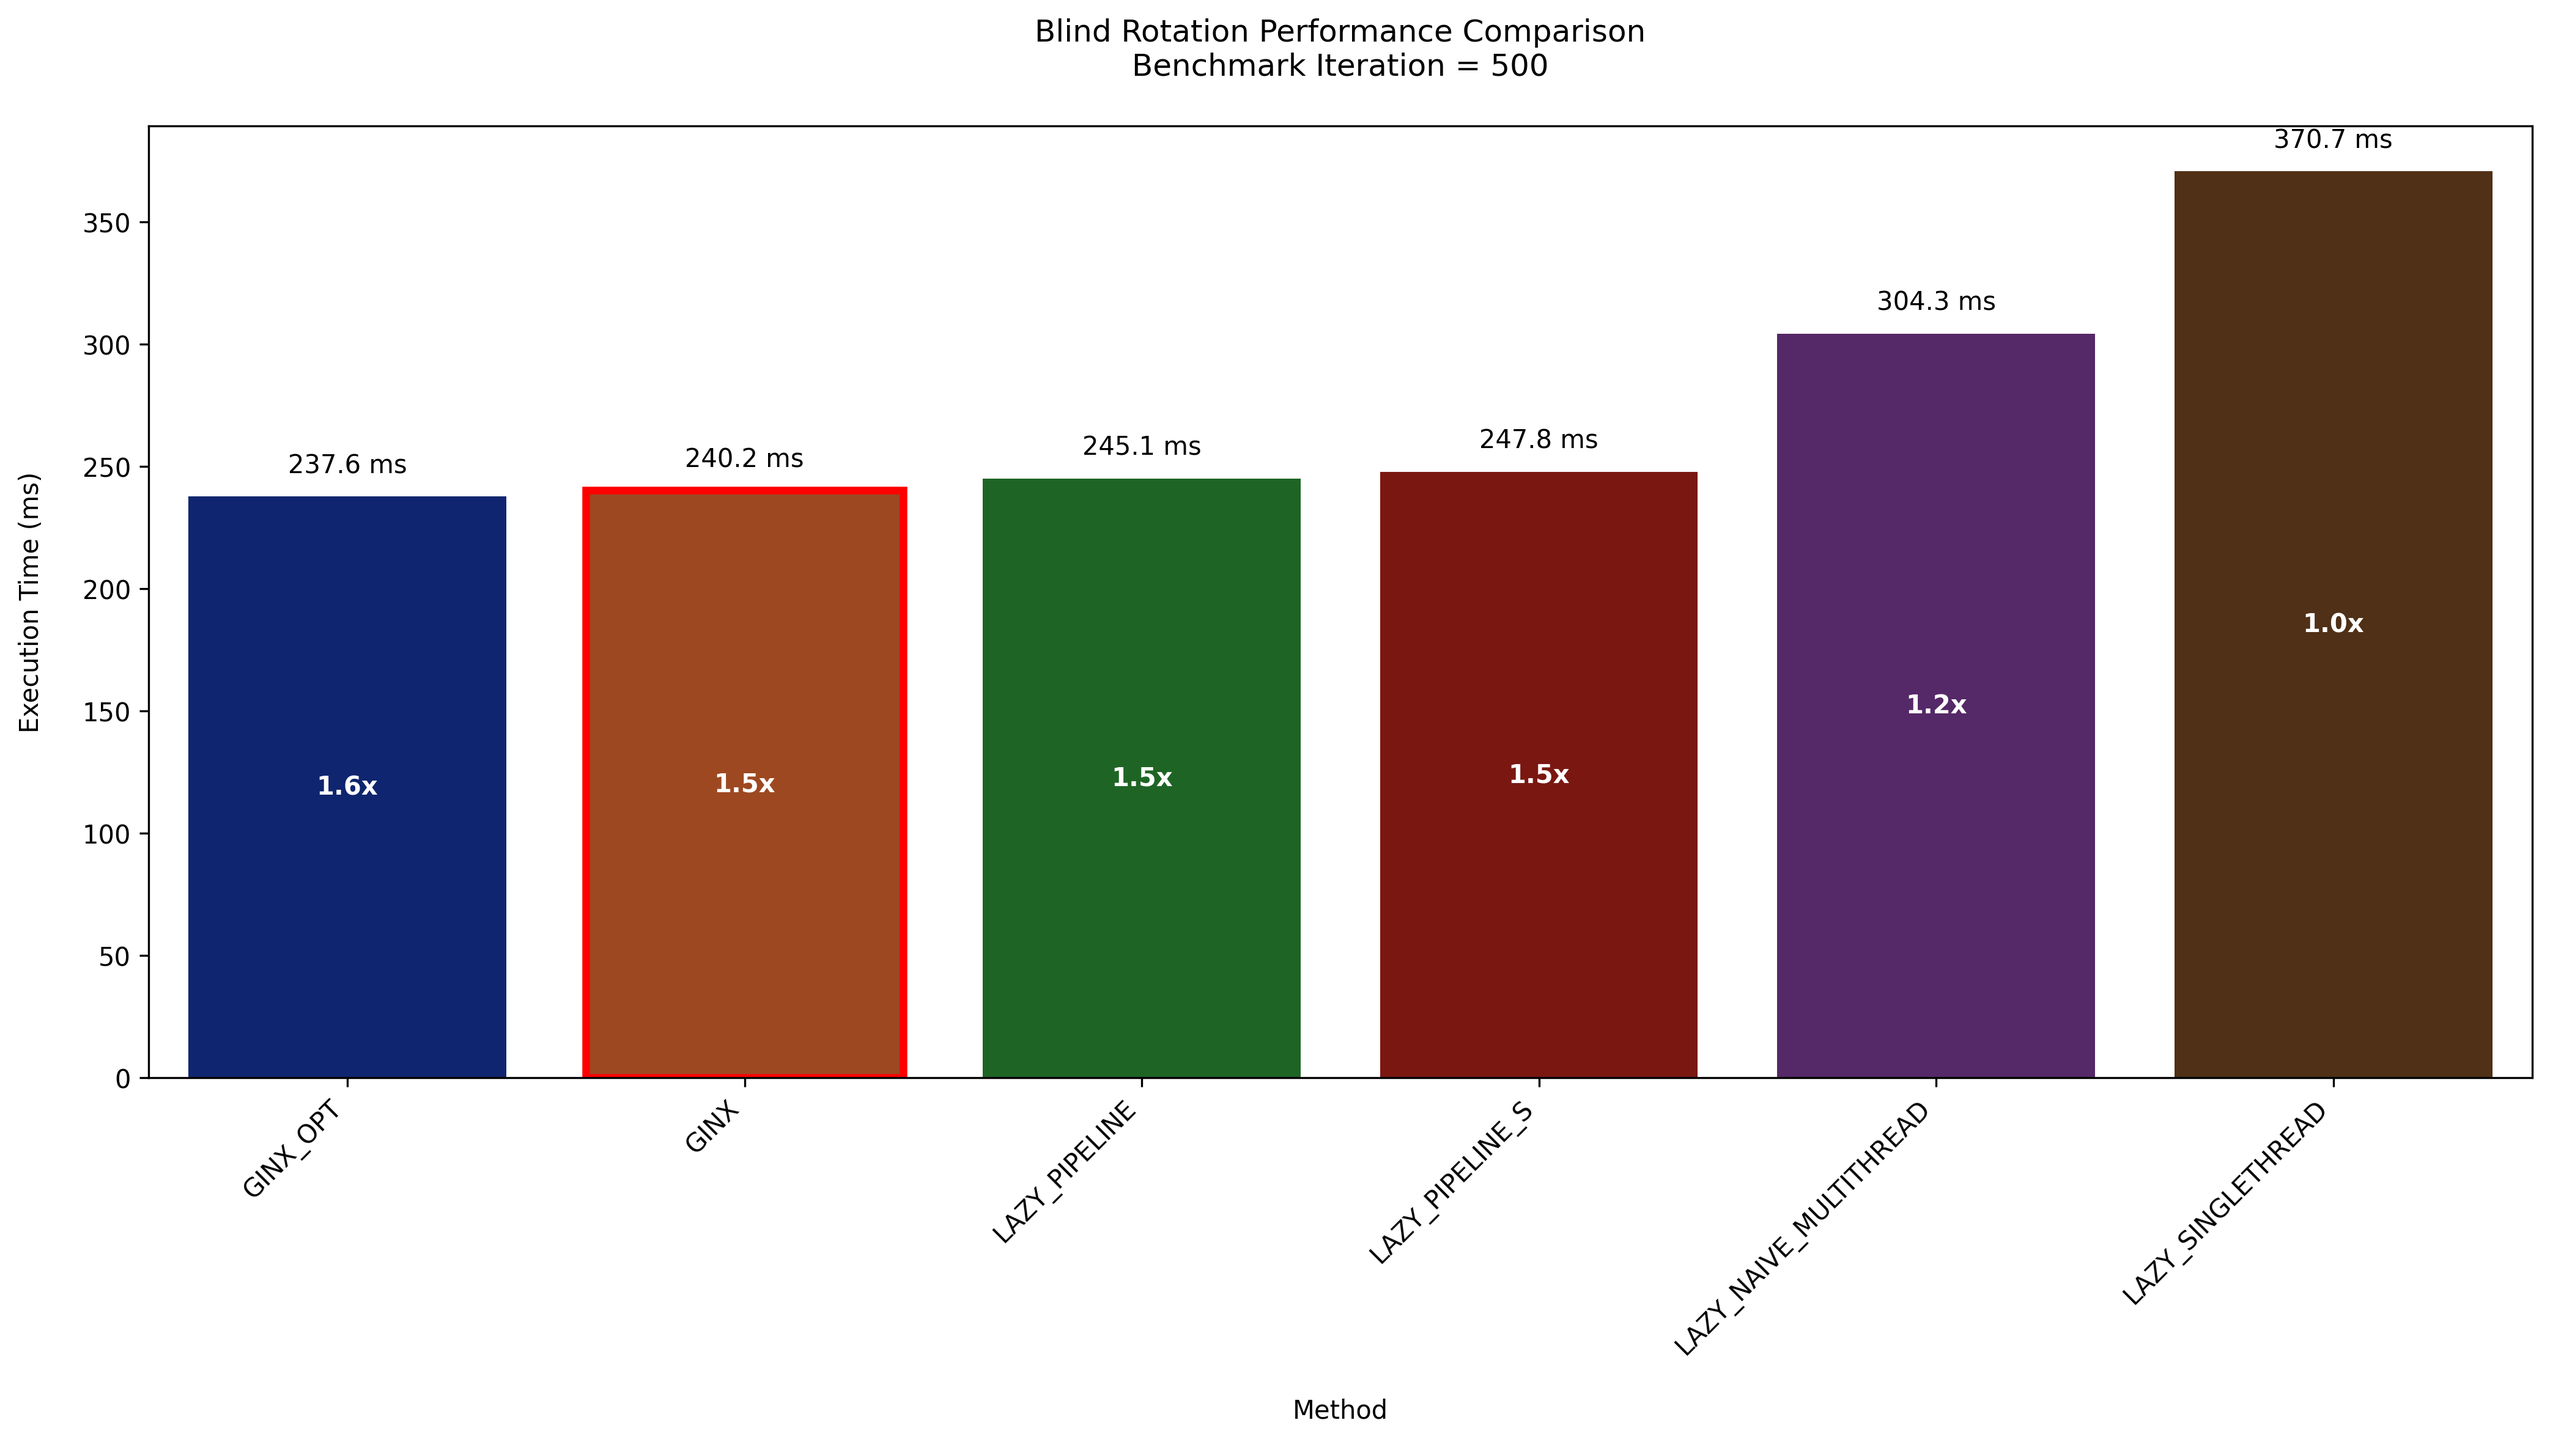
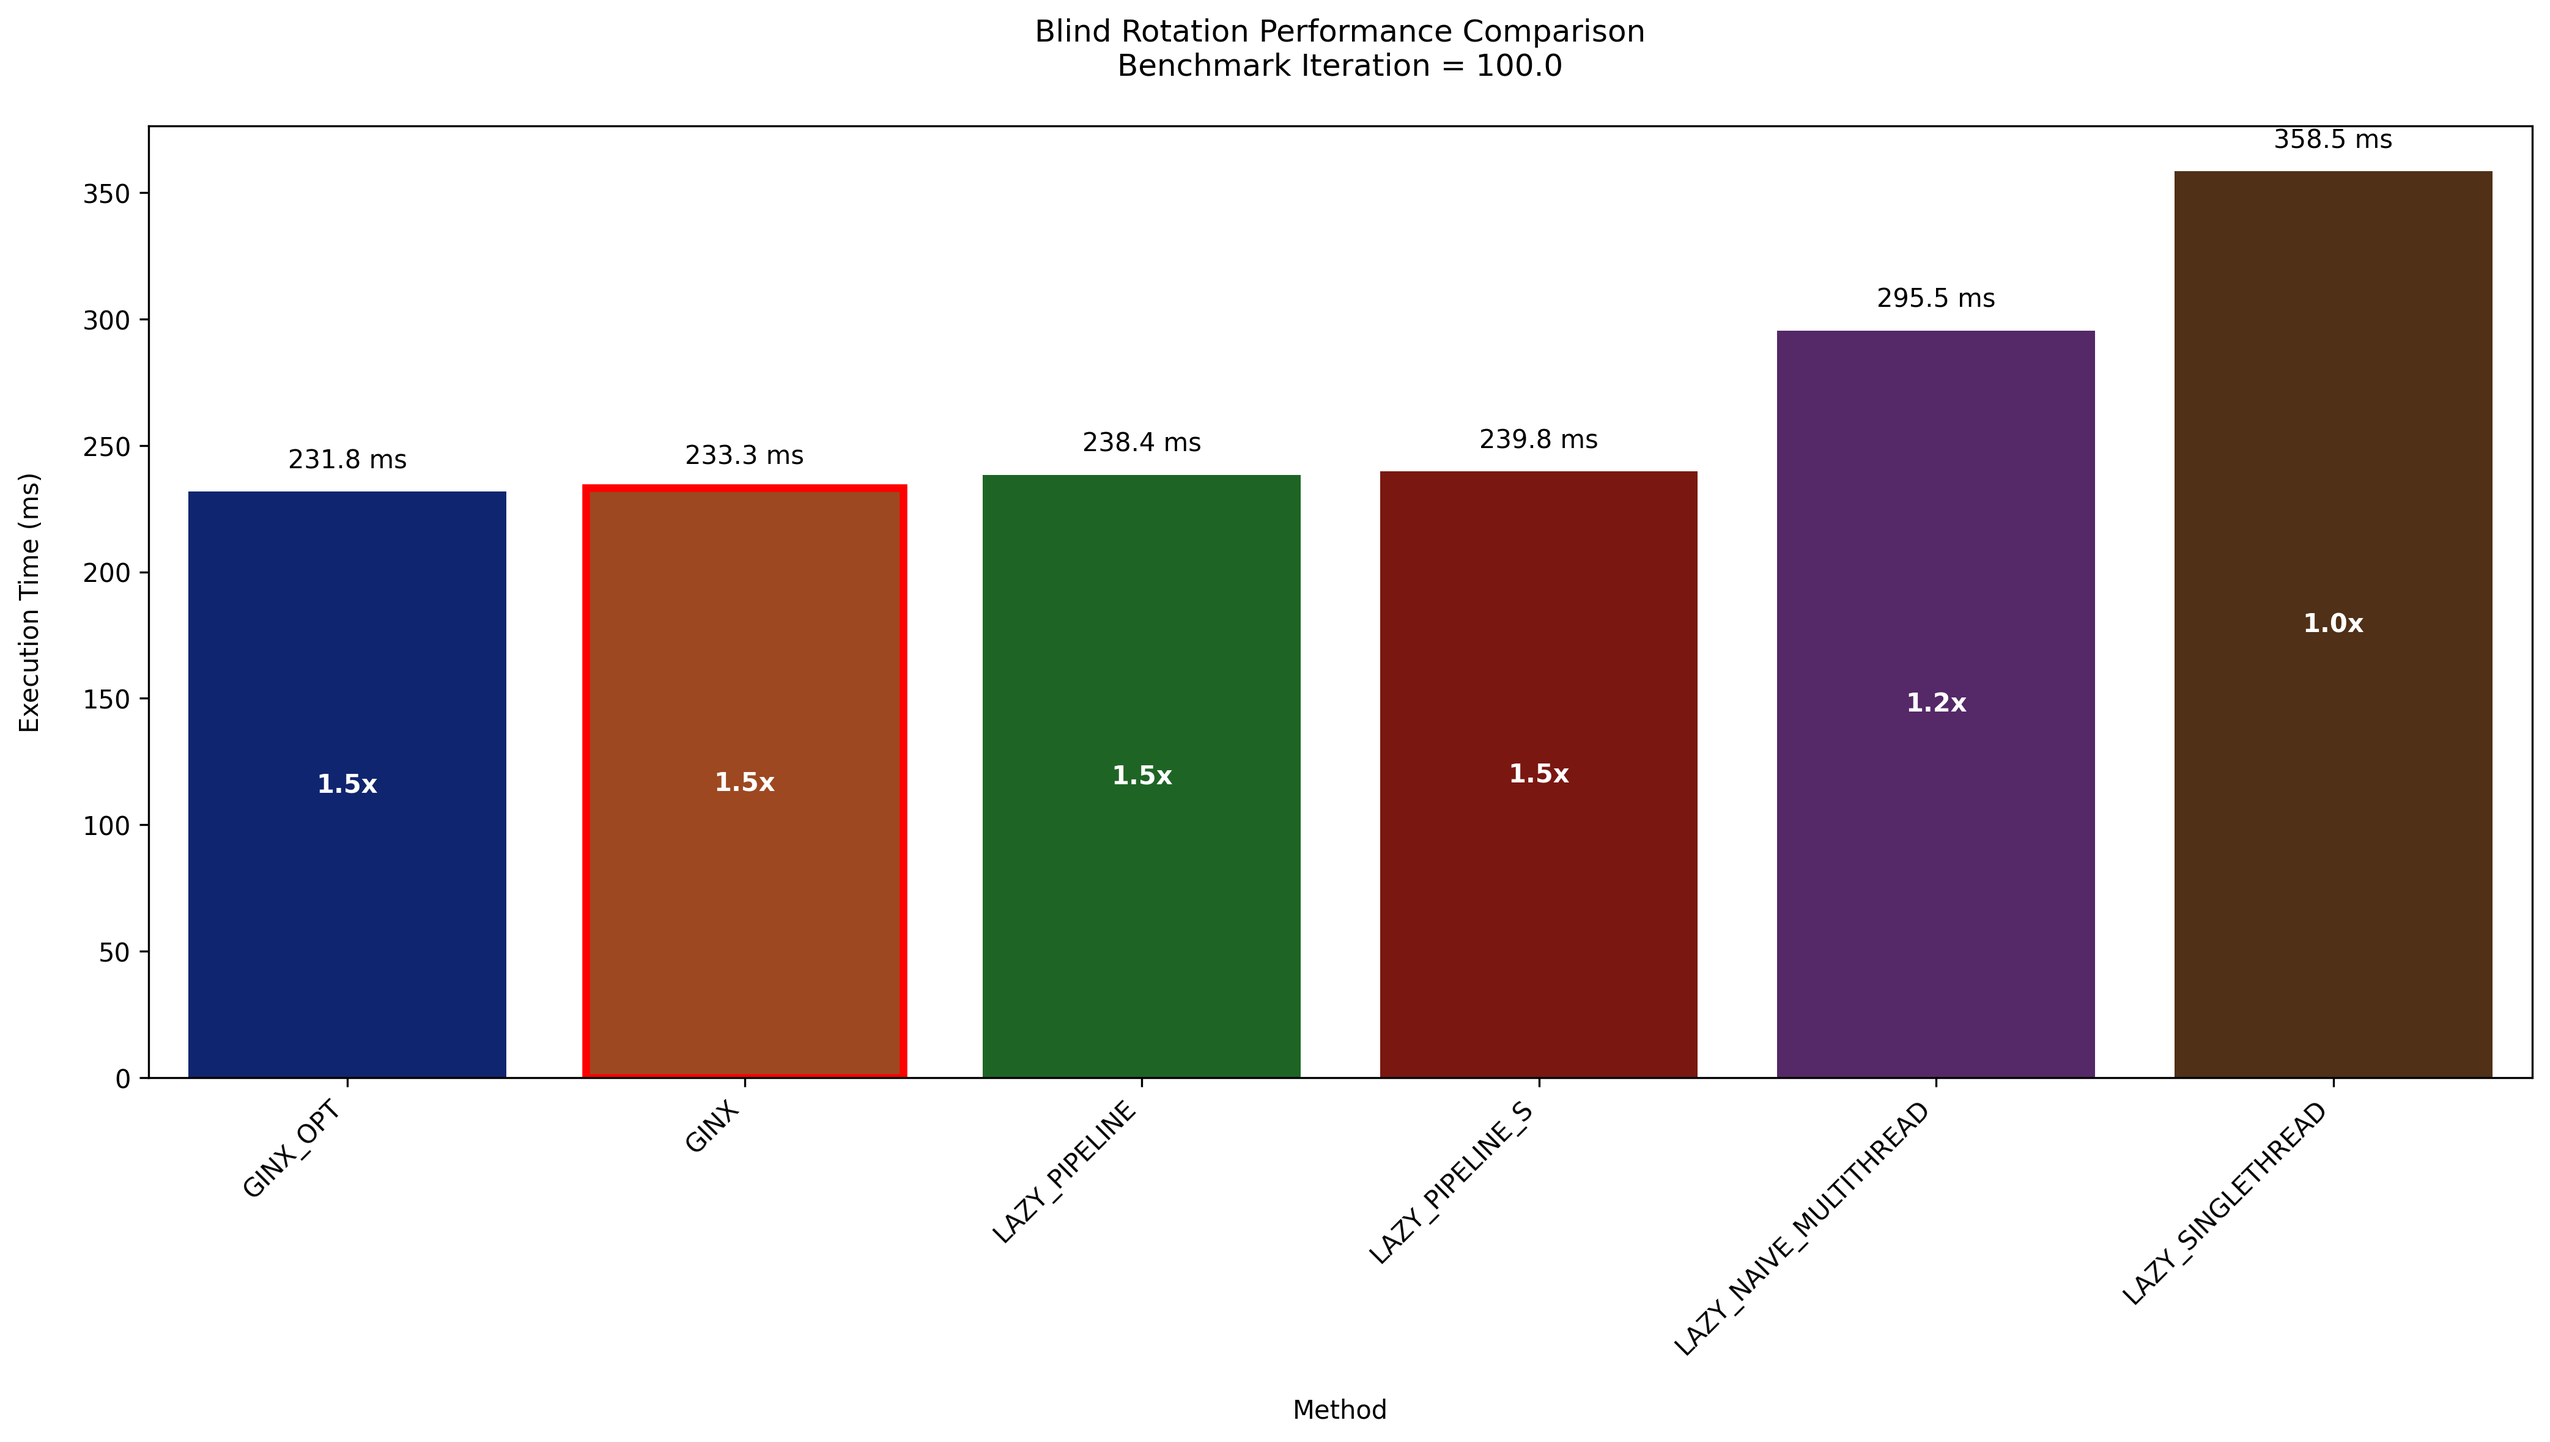
[DB] bench plot

diff --git a/benchmark_run/processdata.py b/benchmark_run/processdata.py
@@ -40,6 +40,7 @@ def load_and_process_data2(file_path):
         benchmarks.append({
             'method': run['name'].split('/')[1],
             'real_time_ms': run['real_time'] / 1000,
+            'iterations': run['iterations']
         })
 
     return pd.DataFrame(benchmarks)
@@ -171,7 +172,7 @@ def create_3d_surface(df, out_path: str):
                         ax.plot(hull_points[:, 0], hull_points[:, 1], hull_z,
                                 color='red', linewidth=3, linestyle='--',
                                 label=label)
-                        boundary_label_added = True  # 后续绘制不再添加标签
+                        boundary_label_added = True
                 except:
                     pass
 
@@ -319,7 +320,7 @@ def plot_benchmark_barchart(df, out_path: str, method_name: str):
 
     # Formatting
     plt.title(method_name + ' Performance Comparison\n'
-              'Benchmark Iteration = 500',
+              'Benchmark Iteration = ' + str(df['iterations'].mean()),
               pad=20)
     plt.xlabel('Method', labelpad=15)
     plt.ylabel('Execution Time (ms)', labelpad=15)
